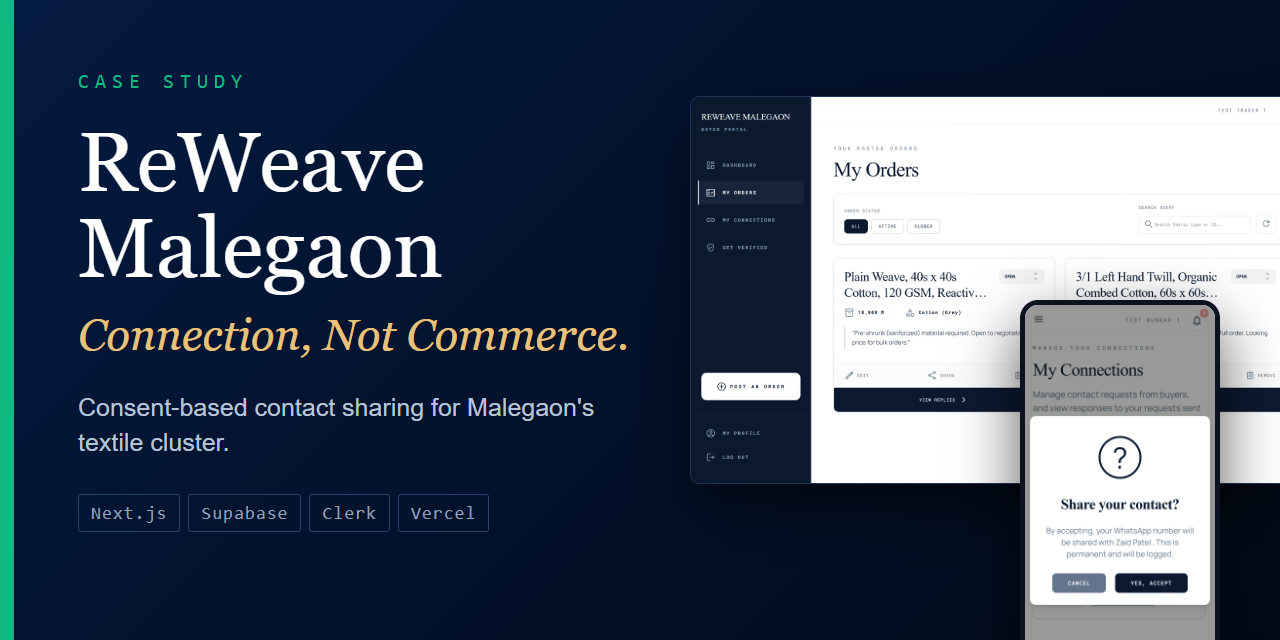
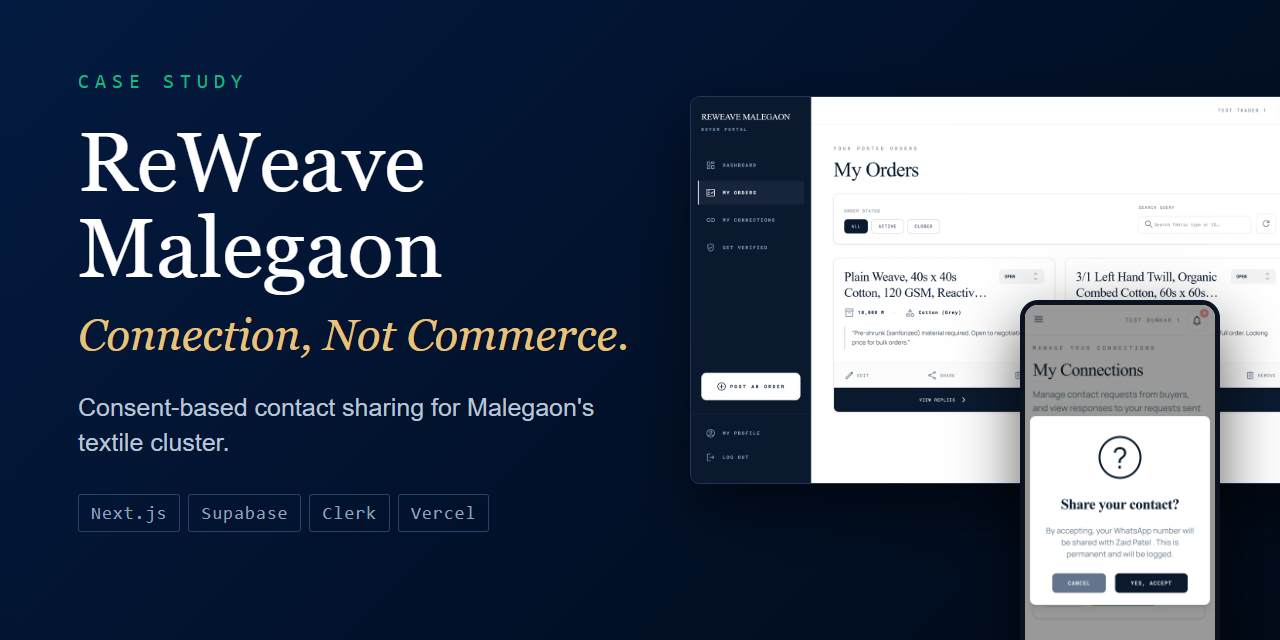
docs: show the new link-preview cards and remove the green bar from the social preview
- README and user journeys now show the order, listing and site preview cards (23 to 25) instead of the old dark card
- Say how previews work today (a Next.js route returning a small JPEG, a fixed card for the site link) instead of "an edge function"
- social-preview.png: cut off the 14-pixel green bar; everything else is unchanged

Changed region(s): [[0.0, 0.0, 0.0312, 1.0]]

diff --git a/README.md b/README.md
@@ -114,12 +114,20 @@ Members upload **Aadhaar, PAN and GST documents** (at least two). An admin revie
 
 ## Sharing that works outside the app
 
-Orders and listings can be shared to WhatsApp (native share sheet on phones, a share window on desktop). The link opens a **public page with no contact details**, and chat apps show a **generated preview card**. A visitor who joins from the link lands with the reply dialog already open (for recent items).
+Orders and listings can be shared to WhatsApp (native share sheet on phones, a share window on desktop). The link opens a **public page with no contact details**, and chat apps show a **generated preview card**: a fabric swatch for an order, and the seller's own photo for a listing. The cards show only what the public page already shows, never a contact detail. A visitor who joins from the link lands with the reply dialog already open (for recent items).
 
 <table>
 <tr>
-<td width="40%"><img src="assets/screenshots/public/23-public-order-link-preview.webp" alt="Generated link preview card for a buyer order"><br><sub>The preview card, generated per order.</sub></td>
+<td width="33%"><img src="assets/screenshots/public/23-link-preview-order.webp" alt="Preview card for a buyer order: a cotton swatch, the fabric name and the quantity in metres"><br><sub><b>An order.</b> A swatch in the fabric's colour, the fabric and the quantity.</sub></td>
+<td width="33%"><img src="assets/screenshots/public/24-link-preview-listing.webp" alt="Preview card for a material listing: the seller's photo, the material name and the price"><br><sub><b>A listing.</b> The seller's first photo, the material and the price.</sub></td>
+<td width="33%"><img src="assets/screenshots/public/25-link-preview-site.webp" alt="Preview card for the site link, with the tagline Connection, Not Commerce"><br><sub><b>The site.</b> A fixed card, so the link previews instantly.</sub></td>
+</tr>
+</table>
+
+<table>
+<tr>
 <td width="40%"><img src="assets/screenshots/public/21-public-order-page.webp" alt="Public order page, signed out, showing no contact details"><br><sub>The public page: no sign-in, no contact details.</sub></td>
+<td width="40%"><img src="assets/screenshots/public/22-public-listing-page.webp" alt="Public material listing page, signed out"><br><sub>A listing's public page.</sub></td>
 <td width="20%"><img src="assets/screenshots/public/m06-public-order-page.webp" alt="Public order page on a phone"><br><sub>On a phone.</sub></td>
 </tr>
 </table>
@@ -178,7 +186,7 @@ Roughly 25K lines of JavaScript across about 150 files, with 40 pages and 43 API
 - **Defence in depth.** Every write checks identity, role and ownership. Row-level security is on for all 16 tables as a backstop. The browser never receives a database key.
 - **Careful uploads.** File type and size checks, plus a check of the file's real leading bytes, so a renamed file is rejected. IDs go in a private bucket.
 - **Security headers and rate limits.** A content security policy, HSTS, frame denial, and three rate-limit tiers (public, signed-in, admin).
-- **Link previews generated at the edge** (1200×630 cards) for every shared order and listing.
+- **Link previews for every shared post.** A 1200×630 JPEG card per order and listing (a fabric swatch, or the seller's photo), built only from fields the public page already shows. The site link uses a fixed card.
 - **Notifications that respect people's time.** Instant in-app alerts, and a once-a-day email digest for members who have been away.
 - **Privacy by default.** Analytics start only after a visitor accepts cookies.
 

diff --git a/docs/architecture.md b/docs/architecture.md
@@ -8,7 +8,7 @@ flowchart LR
     subgraph V["Vercel"]
         P["Proxy<br/>maintenance, sign-in, roles, account status"] --> A["Next.js App Router<br/>pages and API routes"]
         C["Daily cron<br/>08:00 UTC digest"] --> A
-        OG["Edge function<br/>link-preview cards"]
+        OG["Next.js route<br/>link-preview cards"]
     end
     A --> CL["Clerk<br/>sign-in and sessions"]
     A --> SB[("Supabase<br/>Postgres and Storage")]
@@ -60,7 +60,9 @@ If the rate limiter or the maintenance-mode lookup is unreachable, requests are 
 Events (a reply, a contact request, an acceptance or decline, a verification decision, an announcement) create an in-app notification, shown in a bell that refreshes every 60 seconds. Email is sent for the welcome message, verification decisions and announcements. For members who have been away, a **daily digest** (a Vercel cron at 08:00 UTC) emails one summary of anything unread. The cron endpoint refuses requests without a secret.
 
 ### Link previews
-When an order or listing is shared, chat apps fetch the public page and read its tags. The title, description and a **1200×630 image generated on the fly** (an edge function) make a clean preview card. The public pages are viewable without signing in and never include contact details.
+When an order or listing is shared, chat apps fetch the public page and read its tags. The page's metadata points at a **1200×630 card generated on the fly** by a Next.js route (`/api/og`, Node runtime, rate limited). An order gets a woven swatch in the fabric's colour with the quantity. A listing gets the seller's first photo in a taped-print frame, or a picture of the material category when there is no photo. The card carries **only what the public page already shows**, never a contact detail.
+
+The photo is fetched from the storage bucket by file path: the route builds the address itself and accepts only a strict file-name pattern, so a crafted link cannot make it fetch anything else. The photo is shrunk and the card is returned as a **JPEG of about 100 KB**, which keeps WhatsApp previews working. The site link itself uses a fixed image, so it previews instantly.
 
 ### Verification and files
 Members upload ID documents; admins approve or reject; approved members get a Verified badge. Uploads are checked for **type, size and the file's real leading bytes**, so a renamed file is refused. ID documents live in a **private bucket**, and admins open them only through **one-hour signed links**.

diff --git a/docs/user-journeys.md b/docs/user-journeys.md
@@ -99,7 +99,7 @@ A closed order shows an "Order Closed" overlay, and an inactive listing shows "L
 
 <table>
 <tr>
-<td width="33%"><img src="../assets/screenshots/public/23-public-order-link-preview.webp" alt="Generated link preview card for an order"><br><sub>The preview card in the chat.</sub></td>
+<td width="33%"><img src="../assets/screenshots/public/23-link-preview-order.webp" alt="Generated link preview card for an order"><br><sub>The preview card in the chat.</sub></td>
 <td width="33%"><img src="../assets/screenshots/public/21-public-order-page.webp" alt="Public order page for signed-out visitors"><br><sub>The public order page.</sub></td>
 <td width="33%"><img src="../assets/screenshots/public/22-public-listing-page.webp" alt="Public material listing page"><br><sub>The public listing page.</sub></td>
 </tr>
